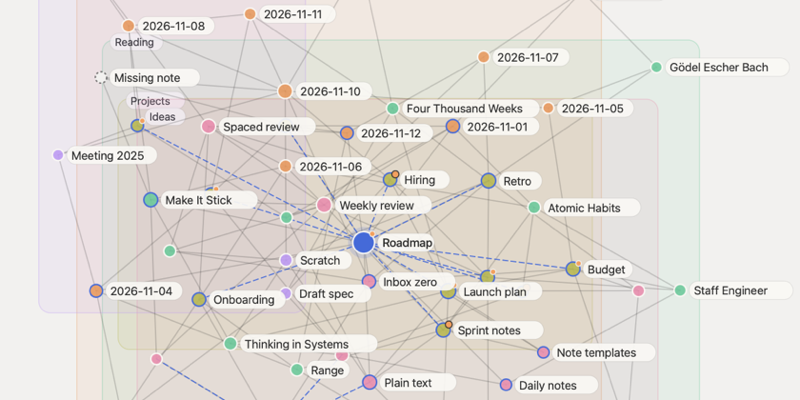
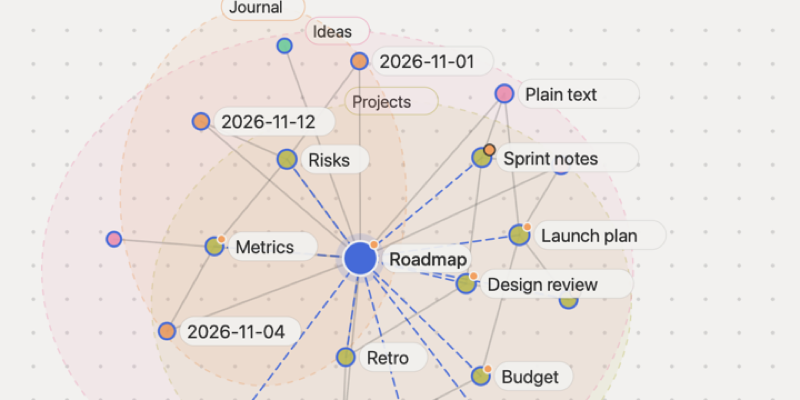
feat: 图谱分组外框改为椭圆并更新商店配图
方形外框不好看，改为椭圆；封面与截图按新版图谱重拍。

diff --git a/advanced/ignorance.knowledge-graphs/views/graph.js b/advanced/ignorance.knowledge-graphs/views/graph.js
@@ -138,20 +138,23 @@ function drawHulls(graph, groups, unit) {
   const labels = [];
   for (const [name, nodes] of [...members].sort((a, b) => b[1].length - a[1].length)) {
     if (nodes.length < 2) continue;
-    const pad = 20 * unit;
-    const left = Math.min(...nodes.map((node) => node.x)) - pad;
-    const right = Math.max(...nodes.map((node) => node.x)) + pad;
-    const top = Math.min(...nodes.map((node) => node.y)) - pad - 8 * unit;
-    const bottom = Math.max(...nodes.map((node) => node.y)) + pad;
+    const pad = 18 * unit;
+    const xs = nodes.map((node) => node.x);
+    const ys = nodes.map((node) => node.y);
+    const cx = (Math.min(...xs) + Math.max(...xs)) / 2;
+    const cy = (Math.min(...ys) + Math.max(...ys)) / 2;
+    // An ellipse through the corners of the bounding box would cover a lot of empty space, so 1.2 of the half extent plus padding.
+    const rx = ((Math.max(...xs) - Math.min(...xs)) / 2) * 1.2 + pad;
+    const ry = ((Math.max(...ys) - Math.min(...ys)) / 2) * 1.2 + pad;
     const index = groups.get(name) ?? 0;
     const box = make("g", { class: `graph-hull g${index}` });
-    box.append(make("rect", { class: "graph-hull-box", x: left, y: top, width: right - left, height: bottom - top, rx: 12 * unit, "stroke-width": unit, "stroke-dasharray": `${4 * unit} ${4 * unit}` }));
+    box.append(make("ellipse", { class: "graph-hull-box", cx, cy, rx, ry, "stroke-width": unit, "stroke-dasharray": `${4 * unit} ${4 * unit}` }));
     const text = name || "根目录";
     const labelWidth = textUnits(text) * 11 * unit + 10 * unit;
-    const x = (left + right) / 2 - labelWidth / 2;
-    let y = top;
-    // Boxes of different folders overlap in a local graph, so push a name down until it clears the others.
-    while (labels.some((other) => x < other.x + other.width && x + labelWidth > other.x && Math.abs(y - other.y) < 16 * unit) && y < bottom - 8 * unit) y += 16 * unit;
+    const x = cx - labelWidth / 2;
+    let y = cy - ry;
+    // Ellipses of different folders overlap in a local graph, so push a name down until it clears the others.
+    while (labels.some((other) => x < other.x + other.width && x + labelWidth > other.x && Math.abs(y - other.y) < 16 * unit) && y < cy) y += 16 * unit;
     labels.push({ x, y, width: labelWidth });
     box.append(pill(x, y, text, 11 * unit, unit, "graph-hull-label"));
     layer.append(box);
